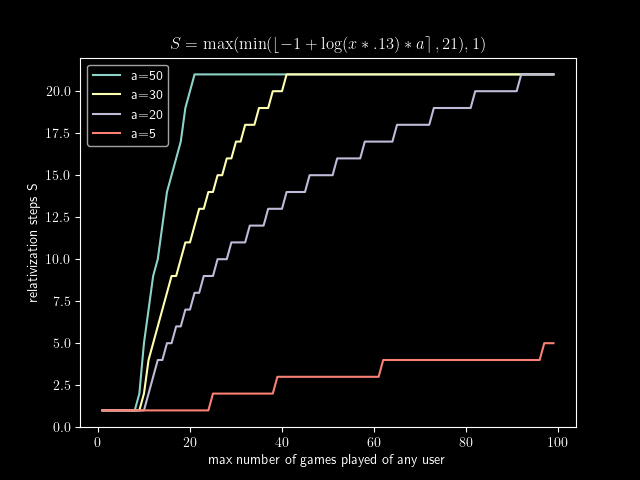
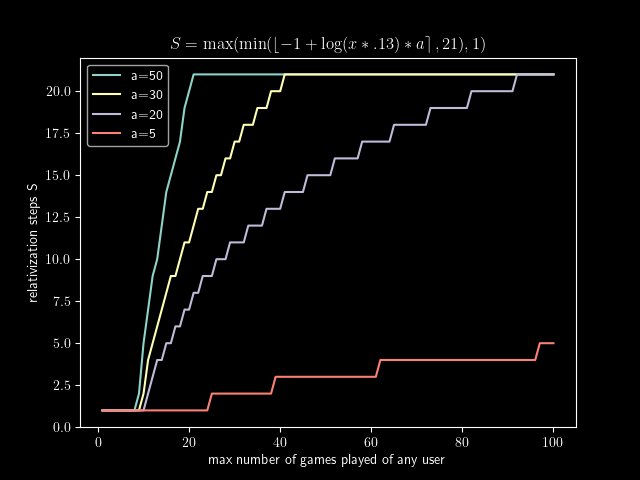
quality

diff --git a/plot.py b/plot.py
@@ -9,17 +9,29 @@ plt.rcParams['text.usetex'] = True
 if os.getenv('DARK', '0') == '1':
   plt.style.use("dark_background")
 
-xx = range(1, 100)
+def disp(name):
+  if os.getenv('SHOW', '0') == '1':
+    plt.show()
+  else:
+    plt.savefig(name)
+
+
+xx = range(1, 100+1)
 for a in [50, 30, 20, 5]:
   yy = [max(min(round(-1+math.log10(x*.13)*a),21),1) for x in xx]
   plt.plot(xx, yy, label=f'a={a}')
-
 plt.ylabel('relativization steps S')
 plt.xlabel('max number of games played of any user')
 plt.legend()
 plt.title(r'$S = \max(\min(\left\lfloor -1+\log(x*.13)*a \right\rceil,21),1)$')
-if os.getenv('SHOW', '0') == '1':
-  plt.show()
-else:
-  plt.savefig('images/relsteps.png')
+disp('images/relsteps.png')
+
+mx=15+1
+xx = range(1, mx)
+yy = [((x+1)/mx)**3 for x in xx]
+plt.plot(xx, yy)
+plt.ylabel('relativizer')
+plt.xlabel('opp position')
+plt.title(f'$((x+1)/{mx})^3$')
+disp('images/quality.png')
 

diff --git a/README.md b/README.md
@@ -74,6 +74,31 @@ opponents of that user are rated.
 This is perhaps the most obvious relativizer valuing won rounds according to the
 rating of the respective opponent.
 
+$o$ = Number of opponents
+$n$ = Distinct ratings of all all users
+$n_i$ = Position of opponent in $n$
+$w_i$ = Won rounds against opponent
+$t$ = Total won rounds
+
+$$ \sum_{i=1}^{o}{(((n_i+1)/n)^3) * w_i/t} $$
+
+This is averaged so that number of rounds per opponent are accounted for
+proportionally.
+
+Here is the opponent's position to relativization plot for a total of $n=16$
+distinct ratings.
+
+![Quality relativizer](images/quality.png)
+
+The highest rated player -- being at position 16 in $n$ -- is worth a 100
+percent so that the result for $max(n)$ is always $1$.
+Won rounds are exponentially less relativized the higher the opponent is rated.
+
+Exponential makes sense here because ratings for players at the top tend to be 
+more robust.
+For example the difference in skill of a player is likely to be greater between
+first and third place than it is for 20th and 23rd.
+
 #### `farming`
 
 The `farming` relativizer relativizes won rounds in the context of how often
